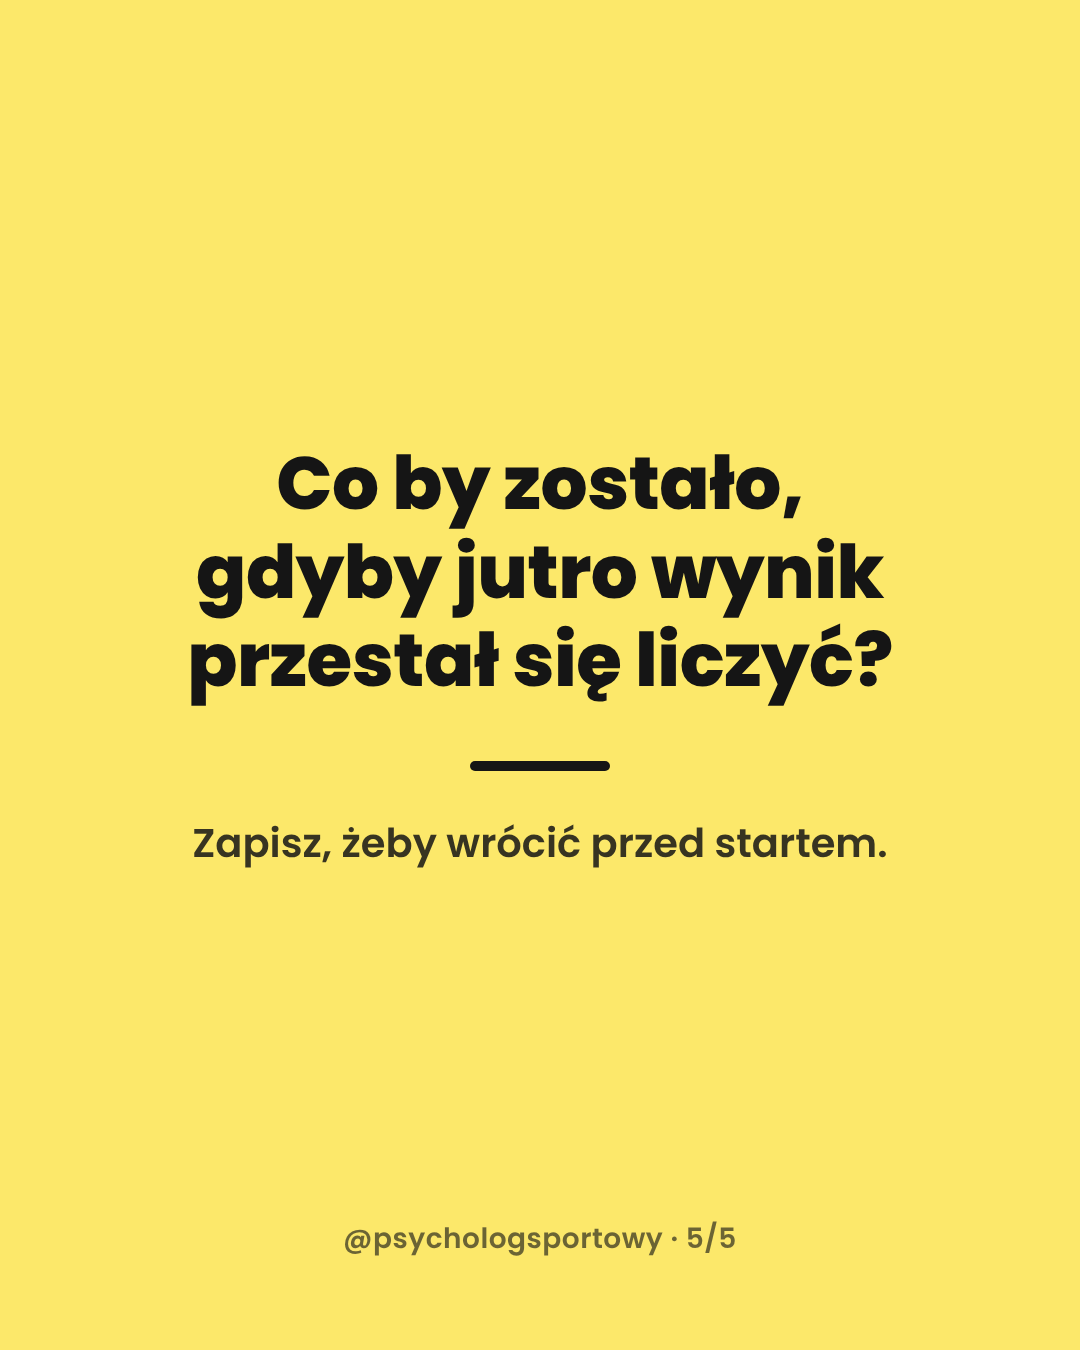
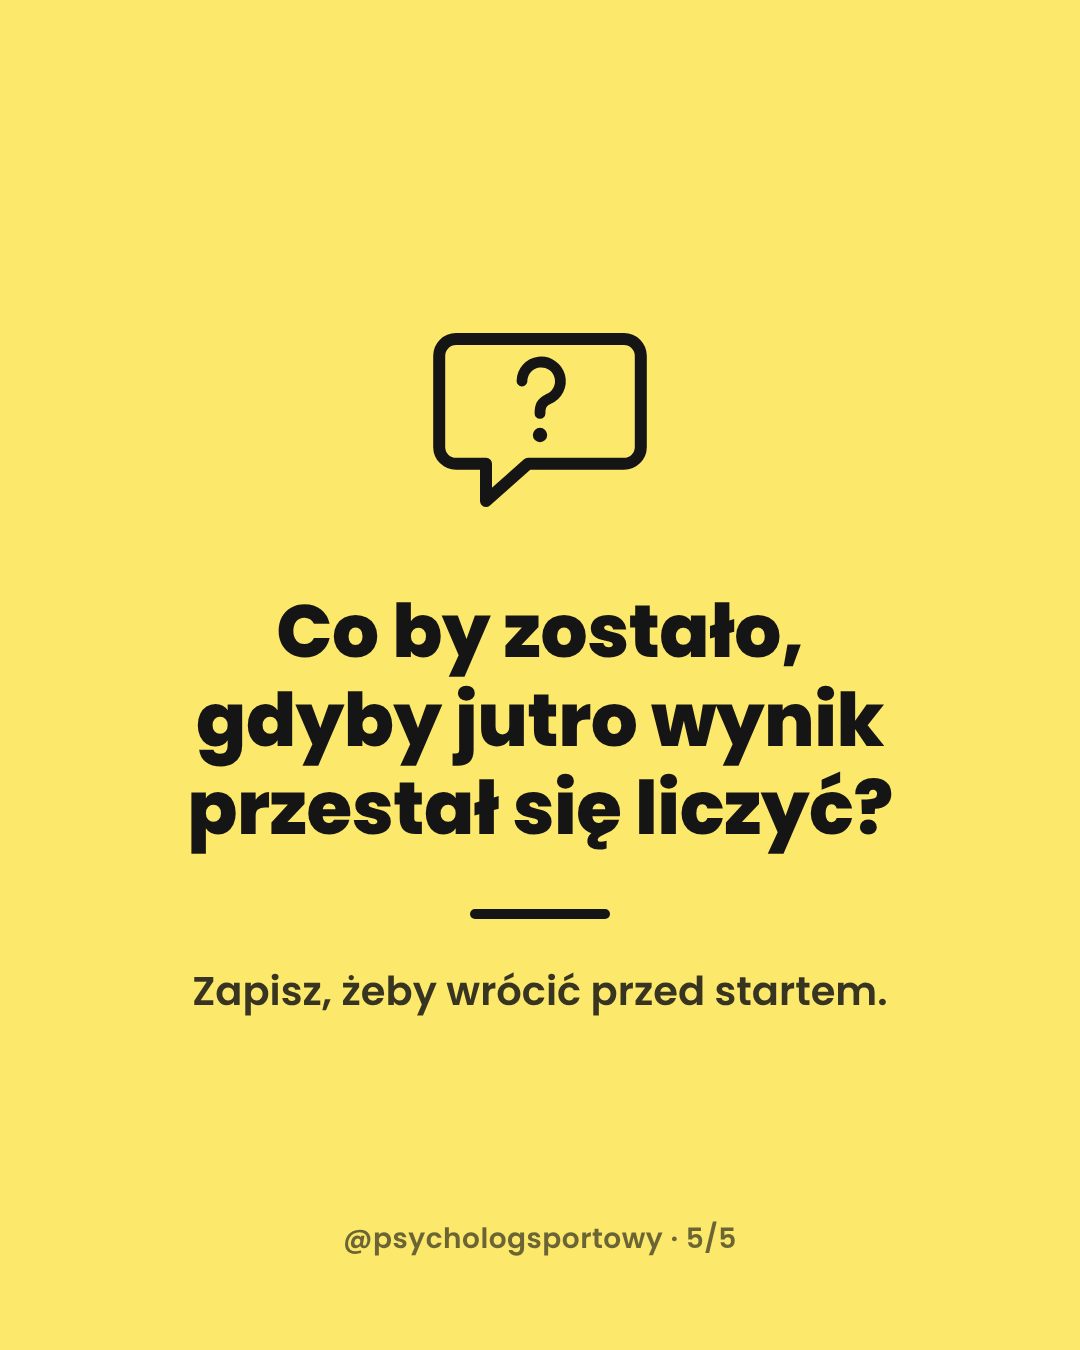
psychologsportowy: illustrated inner slides
Claude-Session: https://claude.ai/code/session_01A5PTvWpyS7iEo6fG2kmJPS

Changed region(s): [[0.1528, 0.2489, 0.825, 0.6844], [0.1833, 0.7156, 0.825, 0.7467]]

diff --git a/tools/psy.js b/tools/psy.js
@@ -41,6 +41,29 @@ const ICONS = {
   flag: c => `<path d="M20 180 L70 90 L100 130 L130 70 L180 180 Z" fill="none" stroke="${c}" stroke-width="10" stroke-linejoin="round"/><path d="M130 70 V20 L165 32 L130 44" fill="none" stroke="${c}" stroke-width="8" stroke-linejoin="round"/>`,
   head: c => `<path d="M70 190 V150 C40 140 28 112 30 84 C34 40 70 12 110 14 C150 16 176 46 174 84 L188 112 H172 V138 C172 150 162 156 150 156 H130 V190" fill="none" stroke="${c}" stroke-width="10" stroke-linejoin="round"/><path d="M98 86 a14 14 0 1 1 14 14 a28 28 0 1 1 -28 -28" fill="none" stroke="${c}" stroke-width="8" stroke-linecap="round"/>`,
 };
+
+Object.assign(ICONS, {
+  stairs: c => `<path d="M20 180 H60 V140 H100 V100 H140 V60 H180 V20" fill="none" stroke="${c}" stroke-width="10" stroke-linejoin="round"/><circle cx="62" cy="112" r="12" fill="${c}"/><path d="M62 124 V150 M50 136 L74 134" stroke="${c}" stroke-width="8" stroke-linecap="round"/>`,
+  foot: c => `<ellipse cx="70" cy="120" rx="26" ry="44" fill="none" stroke="${c}" stroke-width="10"/><ellipse cx="135" cy="70" rx="24" ry="40" fill="none" stroke="${c}" stroke-width="10"/><path d="M60 180 h20 M126 124 h18" stroke="${c}" stroke-width="10" stroke-linecap="round"/>`,
+  growth: c => `<path d="M20 180 H185 M20 180 V20" stroke="${c}" stroke-width="8" stroke-linecap="round" opacity=".6"/><path d="M35 150 L80 110 L110 130 L170 50" fill="none" stroke="${c}" stroke-width="12" stroke-linecap="round" stroke-linejoin="round"/><path d="M140 48 H172 V80" fill="none" stroke="${c}" stroke-width="12" stroke-linecap="round" stroke-linejoin="round"/>`,
+  trophy: c => `<path d="M60 25 H140 V80 a40 40 0 0 1 -80 0 Z" fill="none" stroke="${c}" stroke-width="10" stroke-linejoin="round"/><path d="M60 40 H30 a28 28 0 0 0 34 40 M140 40 H170 a28 28 0 0 1 -34 40 M100 120 V150 M68 178 H132 M80 150 H120 V178" fill="none" stroke="${c}" stroke-width="10" stroke-linecap="round" stroke-linejoin="round"/>`,
+  person: c => `<circle cx="100" cy="60" r="32" fill="none" stroke="${c}" stroke-width="10"/><path d="M35 185 C40 130 70 108 100 108 C130 108 160 130 165 185" fill="none" stroke="${c}" stroke-width="10" stroke-linecap="round"/>`,
+  heart: c => `<path d="M100 178 C40 130 18 100 22 66 C26 36 52 22 74 26 C88 28 96 38 100 48 C104 38 112 28 126 26 C148 22 174 36 178 66 C182 100 160 130 100 178 Z" fill="none" stroke="${c}" stroke-width="10" stroke-linejoin="round"/>`,
+  coins: c => `<ellipse cx="100" cy="50" rx="60" ry="20" fill="none" stroke="${c}" stroke-width="10"/><path d="M40 50 V90 c0 11 27 20 60 20 s60-9 60-20 V50 M40 90 V130 c0 11 27 20 60 20 s60-9 60-20 V90" fill="none" stroke="${c}" stroke-width="10"/>`,
+  flags: c => `<path d="M40 185 V25 M40 30 H110 L95 55 L110 80 H40" fill="none" stroke="${c}" stroke-width="10" stroke-linejoin="round" stroke-linecap="round"/><path d="M120 185 V95 M120 100 H175 L162 120 L175 140 H120" fill="none" stroke="${c}" stroke-width="10" stroke-linejoin="round" stroke-linecap="round" opacity=".65"/>`,
+  tag: c => `<path d="M100 20 H175 V95 L95 175 L20 100 Z" fill="none" stroke="${c}" stroke-width="10" stroke-linejoin="round"/><circle cx="145" cy="50" r="12" fill="${c}"/>`,
+  check: c => `<rect x="25" y="25" width="150" height="150" rx="20" fill="none" stroke="${c}" stroke-width="10"/><path d="M60 100 L90 130 L145 70" fill="none" stroke="${c}" stroke-width="14" stroke-linecap="round" stroke-linejoin="round"/>`,
+  compare: c => `<circle cx="65" cy="70" r="24" fill="none" stroke="${c}" stroke-width="9" opacity=".55"/><path d="M25 175 C30 135 45 115 65 115 C85 115 100 135 105 175" fill="none" stroke="${c}" stroke-width="9" opacity=".55"/><circle cx="140" cy="55" r="26" fill="none" stroke="${c}" stroke-width="10"/><path d="M95 175 C100 125 118 100 140 100 C162 100 180 125 185 175" fill="none" stroke="${c}" stroke-width="10"/>`,
+  cloud: c => `<path d="M55 130 a32 32 0 0 1 4 -64 a44 44 0 0 1 84 10 a28 28 0 0 1 2 54 Z" fill="none" stroke="${c}" stroke-width="10" stroke-linejoin="round"/><path d="M70 155 L60 180 M105 155 L95 180 M140 155 L130 180" stroke="${c}" stroke-width="10" stroke-linecap="round"/>`,
+  scale: c => `<path d="M100 25 V175 M60 175 H140 M30 55 H170" stroke="${c}" stroke-width="10" stroke-linecap="round"/><path d="M30 55 L10 115 H50 Z M170 55 L150 115 H190 Z" fill="none" stroke="${c}" stroke-width="9" stroke-linejoin="round"/>`,
+  tools: c => `<path d="M45 155 L120 80 M120 80 a28 28 0 1 0 -6 -40 l-18 18 l10 22 l22 10 l18 -18" fill="none" stroke="${c}" stroke-width="10" stroke-linecap="round" stroke-linejoin="round"/><circle cx="45" cy="155" r="14" fill="none" stroke="${c}" stroke-width="10"/>`,
+  gauge: c => `<path d="M25 140 a75 75 0 0 1 150 0" fill="none" stroke="${c}" stroke-width="12" stroke-linecap="round"/><path d="M100 140 L140 80" stroke="${c}" stroke-width="10" stroke-linecap="round"/><circle cx="100" cy="140" r="12" fill="${c}"/><path d="M40 170 H160" stroke="${c}" stroke-width="8" stroke-linecap="round" opacity=".5"/>`,
+  wind: c => `<path d="M20 70 H130 a22 22 0 1 0 -22 -22 M20 110 H160 a22 22 0 1 1 -22 22 M20 150 H90" fill="none" stroke="${c}" stroke-width="10" stroke-linecap="round"/>`,
+  people: c => `<circle cx="60" cy="70" r="22" fill="none" stroke="${c}" stroke-width="9"/><circle cx="140" cy="70" r="22" fill="none" stroke="${c}" stroke-width="9"/><circle cx="100" cy="55" r="26" fill="none" stroke="${c}" stroke-width="10"/><path d="M50 175 C55 125 75 100 100 100 C125 100 145 125 150 175 M15 165 C18 130 35 110 60 110 M185 165 C182 130 165 110 140 110" fill="none" stroke="${c}" stroke-width="9" stroke-linecap="round"/>`,
+  dumbbell: c => `<path d="M55 100 H145" stroke="${c}" stroke-width="12" stroke-linecap="round"/><rect x="30" y="60" width="25" height="80" rx="6" fill="none" stroke="${c}" stroke-width="10"/><rect x="145" y="60" width="25" height="80" rx="6" fill="none" stroke="${c}" stroke-width="10"/><path d="M15 80 V120 M185 80 V120" stroke="${c}" stroke-width="10" stroke-linecap="round"/>`,
+  bubble: c => `<path d="M30 40 H170 a14 14 0 0 1 14 14 V130 a14 14 0 0 1 -14 14 H90 L55 175 V144 H30 a14 14 0 0 1 -14 -14 V54 a14 14 0 0 1 14 -14 Z" fill="none" stroke="${c}" stroke-width="10" stroke-linejoin="round"/><path d="M85 75 a16 16 0 1 1 22 15 c-6 3 -7 6 -7 12" fill="none" stroke="${c}" stroke-width="9" stroke-linecap="round"/><circle cx="100" cy="120" r="6" fill="${c}"/>`,
+});
+
 const L = {
   quote: (s, T, cls) => `<div class="c" style="align-items:flex-start;text-align:left">
     <div style="font:600 30px P;letter-spacing:3px;color:${T.ft};margin-bottom:36px">CZĘSTO SŁYSZĘ W GABINECIE</div>
@@ -70,13 +93,18 @@ const L = {
     <text x="680" y="425" text-anchor="end" font-family="P" font-weight="600" font-size="28" fill="${f}" opacity=".7">pobudzenie →</text>
     <text x="40" y="40" text-anchor="end" font-family="P" font-weight="600" font-size="28" fill="${f}" opacity=".7" transform="rotate(-90 40 40)" dx="-10">wykonanie</text></svg></div>`; },
 };
-L.point = (s, T, cls) => `<div class="c" style="align-items:flex-start;text-align:left">
-    <div style="font:800 170px/1 P;color:${T.mark ? T.fg : Y};margin-bottom:30px">${s.n}.</div>
-    <div class="h" style="font-size:72px;color:${T.fg};margin-bottom:36px">${hl(s.title, cls)}</div>
-    <div style="font:500 46px/1.45 P;color:${T.fg};opacity:.92">${esc(s.body)}</div></div>`;
-L.end = (s, T, cls) => `<div class="c"><div class="h" style="font-size:${size(s.text)}px;color:${T.fg}">${hl(s.text, cls)}</div>
-    <div style="width:140px;height:10px;background:${T.mark ? T.fg : Y};border-radius:5px;margin:56px 0 44px"></div>
-    <div style="font:600 40px/1.4 P;color:${T.fg};opacity:.85">${esc(s.cta || 'Zapisz, żeby wrócić przed startem.')}</div></div>`;
+L.point = (s, T, cls) => { const c = T.mark ? T.fg : Y;
+  return `<div class="c" style="align-items:flex-start;text-align:left">
+    <div style="display:flex;align-items:center;gap:40px;margin-bottom:46px">
+      <svg viewBox="0 0 200 200" width="220">${ICONS[s.icon || 'target'](c)}</svg>
+      <div style="font:800 150px/1 P;color:${c}">${s.n}</div></div>
+    <div class="h" style="font-size:72px;color:${T.fg};margin-bottom:34px">${hl(s.title, cls)}</div>
+    <div style="font:500 46px/1.45 P;color:${T.fg};opacity:.92">${esc(s.body)}</div></div>`; };
+L.end = (s, T, cls) => { const c = T.mark ? T.fg : Y;
+  return `<div class="c"><svg viewBox="0 0 200 200" width="240" style="margin-bottom:56px">${ICONS[s.icon || 'bubble'](c)}</svg>
+    <div class="h" style="font-size:${size(s.text)}px;color:${T.fg}">${hl(s.text, cls)}</div>
+    <div style="width:140px;height:10px;background:${c};border-radius:5px;margin:56px 0 44px"></div>
+    <div style="font:600 40px/1.4 P;color:${T.fg};opacity:.85">${esc(s.cta || 'Zapisz, żeby wrócić przed startem.')}</div></div>`; };
 const layoutTile = (s) => {
   const T = TH[s.theme || 'grafit'];
   const cls = T.mark ? 'u' : T.hl ? 'mk' : 'y';
